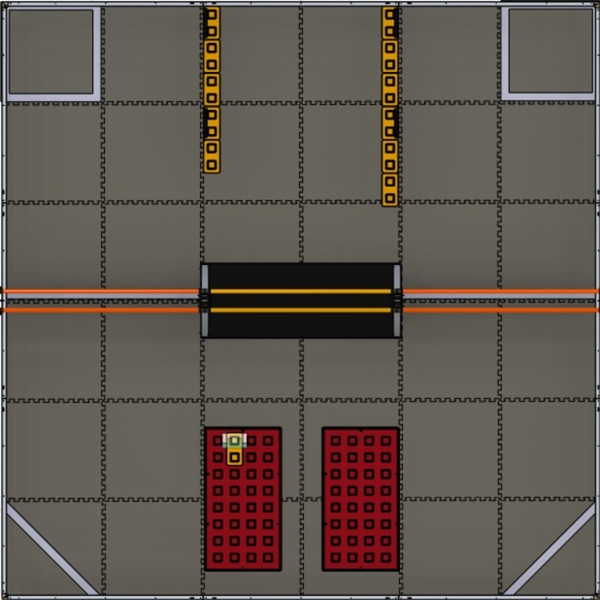
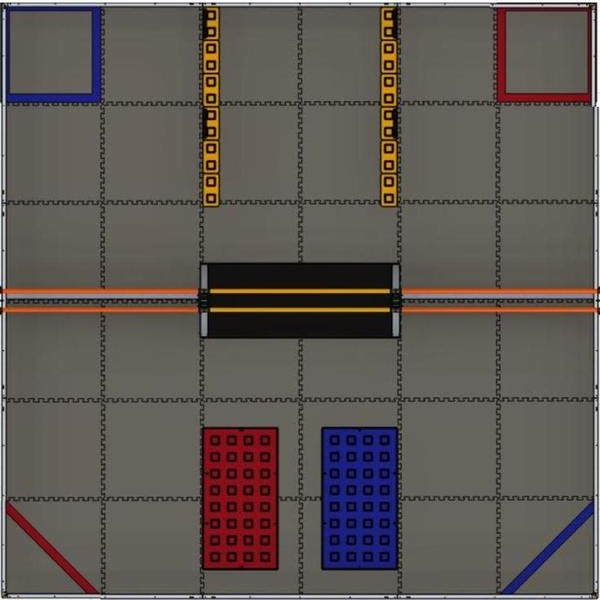
default robot position on startup, can now drag robot, enter robot position manually, robot can no longer leave the screen, control robot angle with keyboard, fixed angle system, robot color changed to make robot front obvious, updated field image

diff --git a/java/src/AutoPlanner.java b/java/src/AutoPlanner.java
@@ -3,49 +3,87 @@ import javafx.geometry.Insets;
 import javafx.geometry.Pos;
 import javafx.scene.Scene;
 import javafx.scene.control.Label;
+import javafx.scene.control.TextField;
 import javafx.scene.image.Image;
+import javafx.scene.input.KeyCode;
+import javafx.scene.input.MouseEvent;
 import javafx.scene.layout.Background;
 import javafx.scene.layout.BackgroundImage;
 import javafx.scene.layout.BackgroundRepeat;
 import javafx.scene.layout.BorderPane;
 import javafx.scene.layout.HBox;
 import javafx.scene.layout.Pane;
+import javafx.scene.paint.Color;
+import javafx.scene.paint.CycleMethod;
+import javafx.scene.paint.LinearGradient;
+import javafx.scene.paint.Stop;
+import javafx.scene.shape.Rectangle;
 import javafx.scene.text.Font;
 import javafx.stage.Stage;
 
+@SuppressWarnings("FieldCanBeLocal")
 public class AutoPlanner extends Application {
-
+    
+    // Instructions to make jar file
+    /*
+    1. delete files in "out" folder
+    2. Run Game, close once loaded (done to refresh class files generated from build)
+    3. Copy files to jarfiles (C:\Users\jonat\AndroidStudioProjects\FTC_Simulator\jarfiles)
+    4. In cmd, run
+       jar cfe Planner.jar AutoPlanner *
+    5. Run jar by clicking on it or running
+       java -jar Planner.jar
+     */
+    
     private BorderPane mainPane = new BorderPane();
     private Pane simPane = new Pane();
     private HBox simSettings = new HBox(5);
+    private Rectangle robotRect;
     
-    private Label cor = new Label("(0, 0)");
-    private Label corInch = new Label("(0, 0) inches");
+    private double xCor, yCor, xInch, yInch, angle;
+    
+    private Label corLb = new Label("Position: (");
+    private Label commaLb = new Label(",");
+    private Label angleLb1 = new Label(")          Angle (rad):");
+    private Label angleLb2 = new Label("*π");
+    private TextField xInchTf = new TextField("9");
+    private TextField yInchTf = new TextField("111");
+    private TextField angleTf = new TextField("0");
     
     // 36 tiles, each tile 2ft x 2ft, field length/height = 6 tiles, side length = 12ft || 144in
     // field- 600x600, every 50 pixels = 1 ft, every 4.16 pixels ~1 in
-    public final static double pixelToInch = 4.16;
-
+    private final static double pixelToInch = 4.16;
+    private final static double robotLength = 18 * pixelToInch;
+    private final static double robotRadius = robotLength / 2;
+    
     @Override
     public void start(Stage primaryStage) {
-
+        
         simSettings.setPadding(new Insets(5, 5, 5, 5));
         simSettings.setAlignment(Pos.CENTER);
         
-        cor.setFont(Font.font(20)); corInch.setFont(Font.font(20));
-        //simSettings.getChildren().addAll(cor, corInch);
-        simSettings.getChildren().addAll(corInch);
-
-        mainPane.setOnMouseClicked(e -> {
-            double xCor = Double.parseDouble(String.format("%.2f", e.getSceneX()));
-            double yCor = Double.parseDouble(String.format("%.2f", e.getSceneY()));
-            double xInch = Double.parseDouble(String.format("%.2f", xCor / pixelToInch));
-            double yInch = Double.parseDouble(String.format("%.2f", yCor / pixelToInch));
-            
-            cor.setText("(" + xCor + ", " + yCor + ")");
-            corInch.setText("(" + xInch + ", " + yInch + ") inches");
+        corLb.setFont(Font.font(20)); commaLb.setFont(Font.font(20)); xInchTf.setPrefWidth(50); yInchTf.setPrefWidth(50);
+        angleLb1.setFont(Font.font(20)); angleLb2.setFont(Font.font(20)); angleTf.setPrefWidth(50);
+        
+        simSettings.getChildren().addAll(corLb, xInchTf, commaLb, yInchTf, angleLb1, angleTf, angleLb2);
+        
+        updateRobotPos(2, null);
+        
+        mainPane.setOnMouseClicked(e -> updateRobotPos(1, e));
+        mainPane.setOnMouseDragged(e -> updateRobotPos(1, e));
+        
+        mainPane.setOnKeyPressed(e -> {
+            if (e.getCode() == KeyCode.ENTER) updateRobotPos(2, null);
+            if (e.getCode() == KeyCode.ALT_GRAPH) {
+                angleTf.setText(String.format("%.2f", Double.parseDouble(angleTf.getText()) + 0.1));
+                updateRobotPos(3, null);
+            }
+            if (e.getCode() == KeyCode.CONTROL) {
+                angleTf.setText(String.format("%.2f", Double.parseDouble(angleTf.getText()) - 0.1));
+                updateRobotPos(3, null);
+            }
         });
-
+        
         simPane.setBackground(new Background(
                 new BackgroundImage(new Image("field.jpg"), BackgroundRepeat.NO_REPEAT, BackgroundRepeat.NO_REPEAT,
                         null, null)));
@@ -57,8 +95,48 @@ public class AutoPlanner extends Application {
         primaryStage.getIcons().add(new Image("field.jpg"));
         primaryStage.show();
     }
-
-    public static void main(String[] args) { 
-       Application.launch(args);
+    
+    private void updateRobotPos(int code, MouseEvent e) { // 1 = mouse, 2 = pos input, 3 = angle input
+        if (code == 1 || code == 2) {
+            if (code == 1) {
+                xCor = Double.parseDouble(String.format("%.2f", e.getSceneX()));
+                yCor = Double.parseDouble(String.format("%.2f", e.getSceneY()));
+            } else {
+                xCor = Double.parseDouble(xInchTf.getText()) * pixelToInch;
+                yCor = (144 - Double.parseDouble(yInchTf.getText())) * pixelToInch;
+            }
+    
+            if (xCor - robotRadius < 0) xCor = robotRadius; //left
+            if (xCor + robotRadius > 600) xCor = 600 - robotRadius; //right
+            if (yCor - robotRadius < 0) yCor = robotRadius; //up
+            if (yCor + robotRadius > 600) yCor = 600 - robotRadius; //down
+    
+            if (code == 1) {
+                xInch = Double.parseDouble(String.format("%.2f", xCor / pixelToInch));
+                double yCorAdjusted = 600 - yCor;
+                yInch = Double.parseDouble(String.format("%.2f", yCorAdjusted / pixelToInch));
+        
+                xInchTf.setText(xInch + "");
+                yInchTf.setText(yInch + "");
+            }
+            //System.out.println(xCor + " " + yCor);
+        }
+        
+        simPane.getChildren().remove(robotRect);
+        robotRect = new Rectangle(xCor - robotRadius, yCor - robotRadius, robotLength, robotLength);
+    
+        Stop[] stops = {new Stop(0, Color.rgb(0, 0, 0, 0.85)),
+                new Stop(1, Color.rgb(192, 192, 192, 0.85))};
+        LinearGradient background = new LinearGradient(xCor, yCor, xCor+robotLength, yCor,
+                false, CycleMethod.NO_CYCLE, stops);
+        robotRect.setFill(background);
+        angle = -((Double.parseDouble(angleTf.getText()) * 180) + 0.5);
+        if (angle > 360) {angle %= 360;}
+        robotRect.setRotate(angle);
+        simPane.getChildren().add(robotRect);
+    }
+    
+    public static void main(String[] args) {
+        Application.launch(args);
     }
 }

diff --git a/java/src/RobotSimulator.java b/java/src/RobotSimulator.java
@@ -16,7 +16,7 @@ import javafx.scene.shape.Line;
 import javafx.scene.shape.Rectangle;
 import javafx.stage.Stage;
 
-public class Simulator extends Application {
+public class RobotSimulator extends Application {
 
     private BorderPane mainPane = new BorderPane();
     private Pane simPane = new Pane();
@@ -108,7 +108,7 @@ public class Simulator extends Application {
             simPane.getChildren().clear();
 
             robot = new Robot(x, y, angle, velocity, angleVelocity);
-            robotRect = new Rectangle(x, y, 50, 50);
+            robotRect = new Rectangle(x, y, 18 * pixelToInch, 18 * pixelToInch);
             robotRect.setRotate(angle);
 
             simPane.getChildren().add(robotRect);

diff --git a/java/src/Robot.java b/java/src/Robot.java
@@ -25,7 +25,7 @@ public class Robot {
         double time = (double) System.currentTimeMillis() / 1000.0;
         double timeDiff = time - lastTime; //without, movement too fast
 
-        distanceFactor = velocity * Simulator.pixelToInch * timeDiff; //without, movement too slow
+        distanceFactor = velocity * RobotSimulator.pixelToInch * timeDiff; //without, movement too slow
         angle += angleVelocity * timeDiff;
 
         if (angle >= 360) angle -= 360;

diff --git a/README.md b/README.md
@@ -1,4 +1,9 @@
-# Robot Simulator  
-Simulates an FTC Robot on a field     
-Given the starting x and y coordinates, angle, velocity, and angular velocity, 
-this program will simulate the robot's movement in real time.
+# FTC Simulator
+Contains 2 tools to assist in FTC programming
+ - Robot Simulator Tool
+	 - Simulates an FTC Robot on a field
+	 - Given the starting x and y coordinates, angle, velocity, and angular velocity, the robot's movement can be simulated in real time.
+ - Autonomous Planner Tool
+	 - Helps to plan your autonomous route
+	 - Uses global coordinate system for coordinates (in inches), angles (in radians)
+	 - Click or drag the robot or enter position + angle
